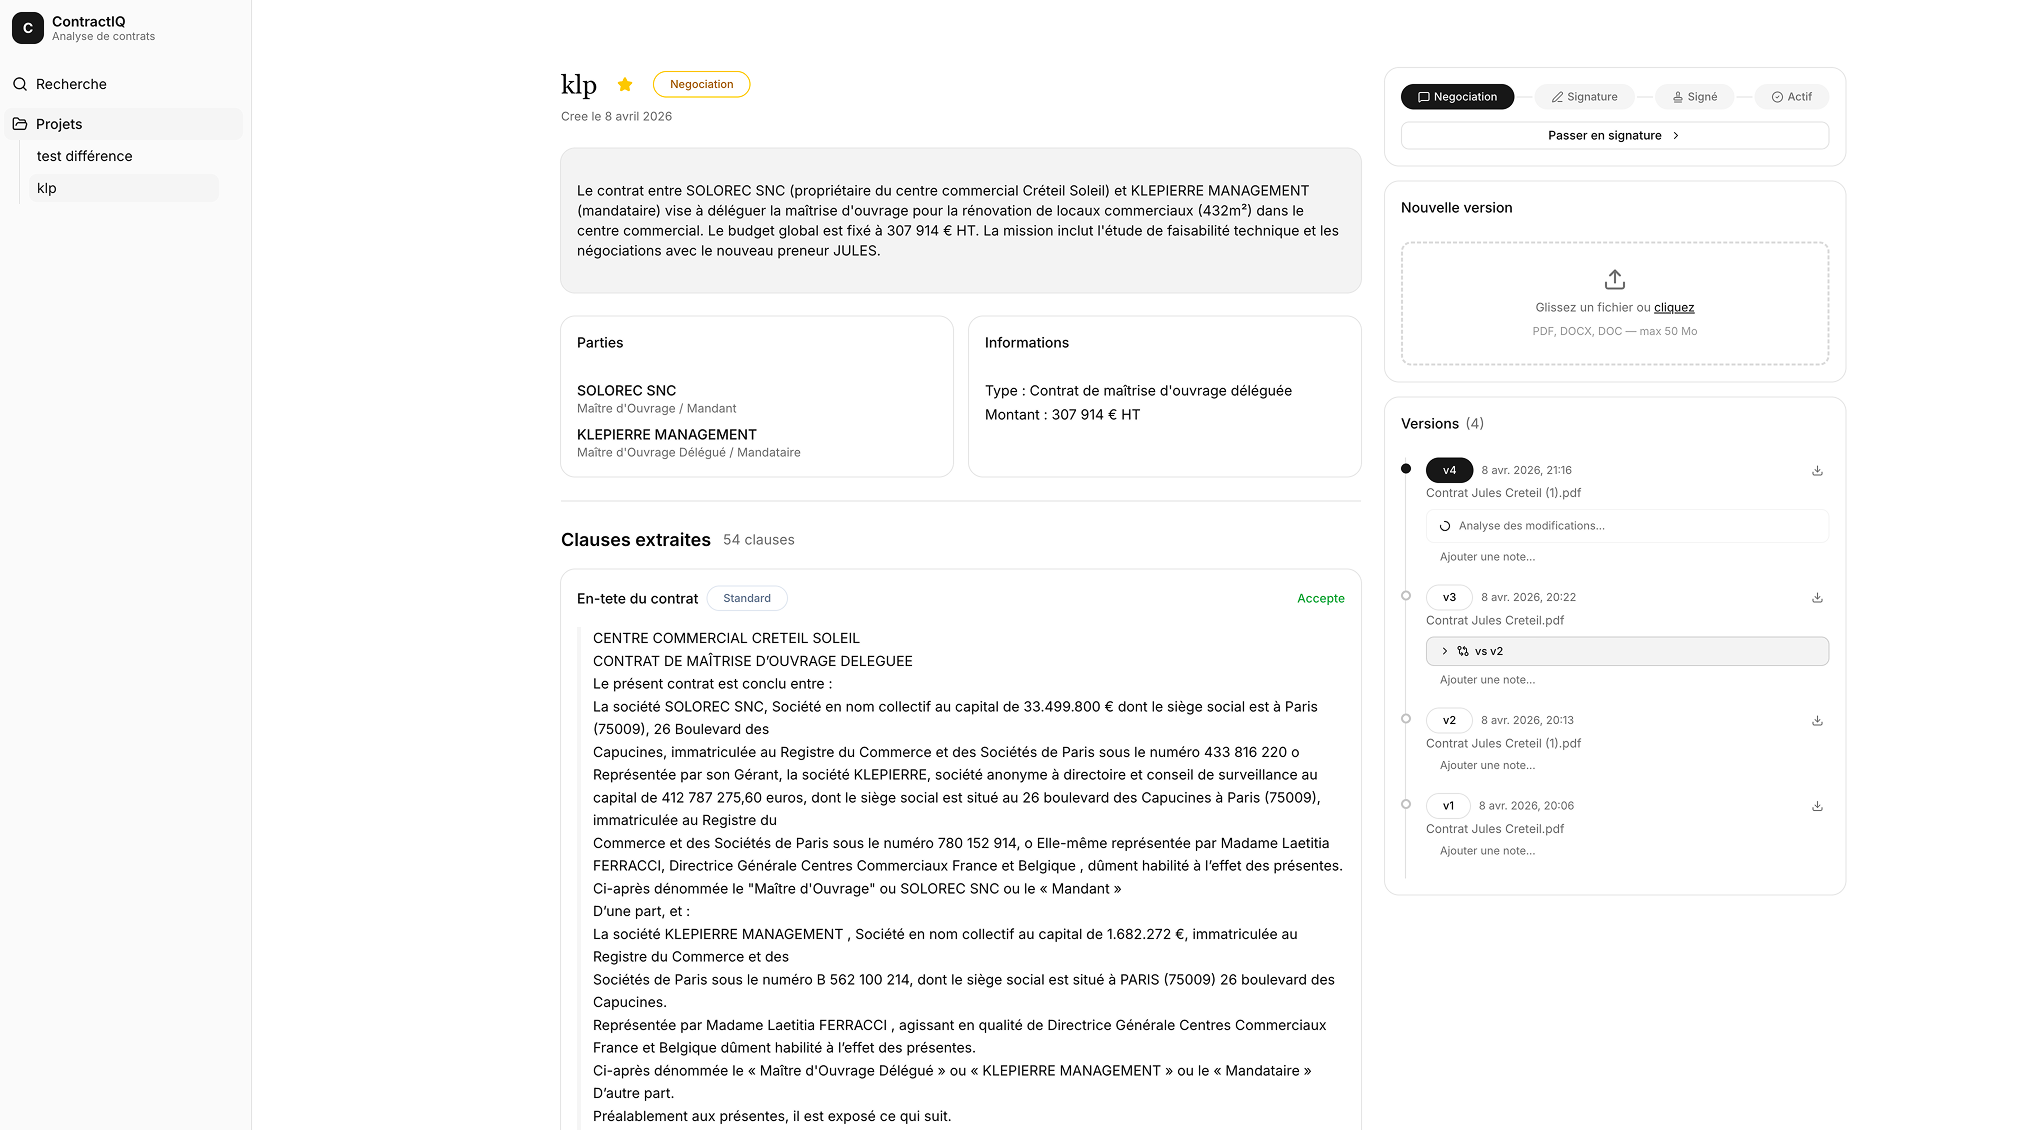
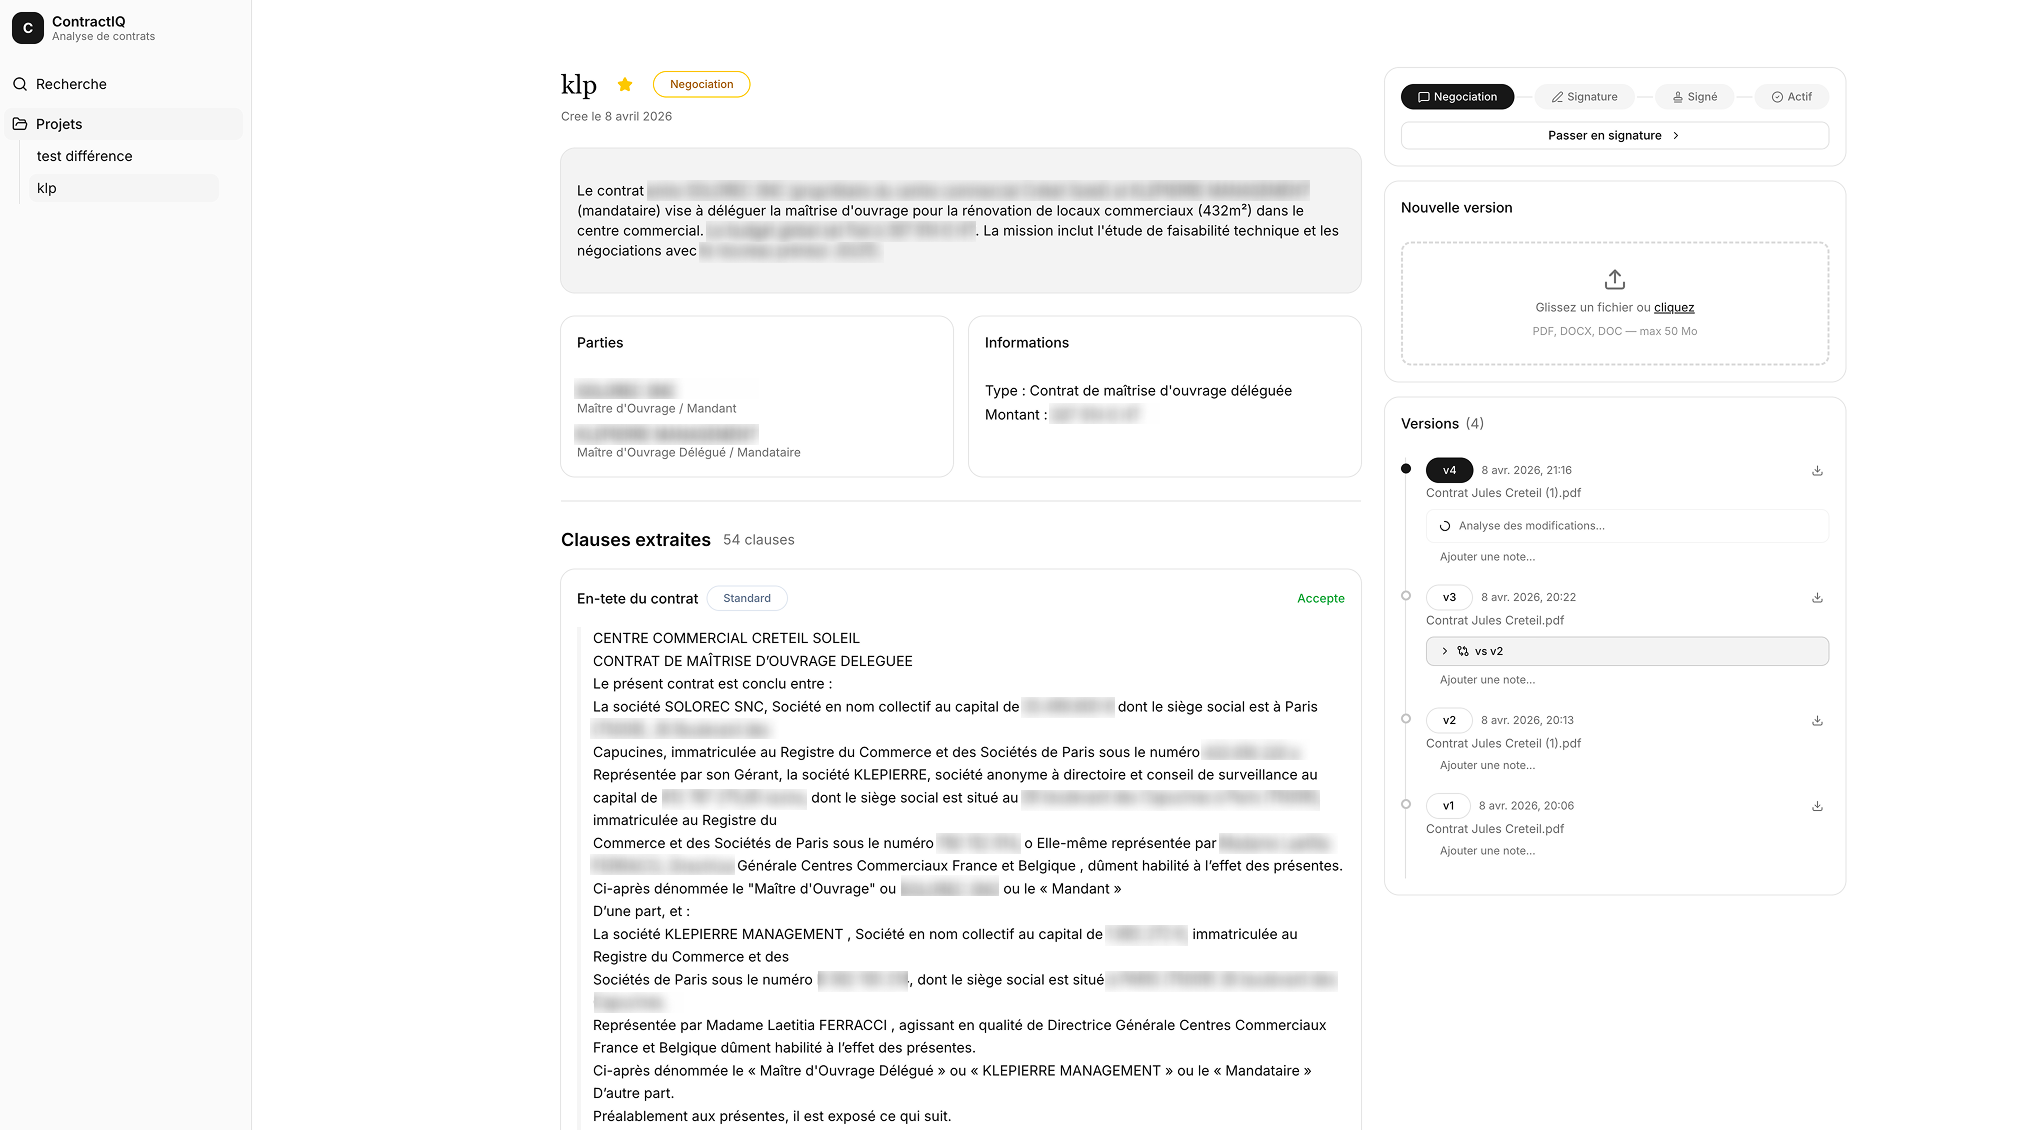
feat(hero): add swipe hint on Timeline + refresh IdentityCard bio
- Animated Hand icon on Timeline bento card to hint at swipeable cards (fires every 7s, 3 rotation+slide cycles with hold)
- Update IdentityCard bio to highlight AI-augmented design work and openness to new environments
- Tweak Timeline + BentoGrid copy, refresh ContractIQ banner image

diff --git a/src/components/features/hero/BentoGrid.tsx b/src/components/features/hero/BentoGrid.tsx
@@ -15,6 +15,7 @@ import { Timeline } from '@/components/features/about'
 import { ExperienceCard } from './ExperienceCard'
 import { ProjectsCard } from './ProjectsCard'
 import { ContactCard } from './ContactCard'
+import { SwipeHint } from './SwipeHint'
 
 interface BentoGridProps {
   experience: ExperienceItem[]
@@ -73,9 +74,9 @@ export function BentoGrid({ experience, skills, availability }: BentoGridProps) 
       </BentoCard>
 
       <BentoCard index={6} variant="projects" className="md:min-h-45">
-        <Link href={`/${locale}/projects/design-system`} className="absolute -inset-5 md:-inset-6 rounded-2xl overflow-hidden block">
+        <Link href={`/${locale}/ai-journey/level-4-agentic-designer`} className="absolute -inset-5 md:-inset-6 rounded-2xl overflow-hidden block">
           <Image
-            src="/images/projects/design-system/banner.png"
+            src="/images/ai/agentic-design.png"
             alt="Design System"
             fill
             className="object-cover transition-transform duration-300 hover:scale-105"
@@ -89,6 +90,7 @@ export function BentoGrid({ experience, skills, availability }: BentoGridProps) 
       {/* Row 5: Experience carousel (2/3) + AI Journey link (1/3) */}
       <BentoCard index={7} variant="experience" className="md:col-span-2">
         <Timeline items={experience} />
+        <SwipeHint />
       </BentoCard>
 
       <BentoCard index={8} variant="projects" className='min-h-40'>
@@ -101,7 +103,7 @@ export function BentoGrid({ experience, skills, availability }: BentoGridProps) 
             aria-hidden="true"
           />
           <p className="text-lg font-bold text-foreground transition-colors">
-            {locale === 'fr' ? 'Exploration IA' : 'AI Journey'}
+            {locale === 'fr' ? 'Mes explorations IA' : 'My AI Journey'}
           </p>
         </Link>
       </BentoCard>

diff --git a/src/components/features/hero/SwipeHint.tsx b/src/components/features/hero/SwipeHint.tsx
@@ -1,0 +1,55 @@
+'use client'
+
+import { useEffect } from 'react'
+import { motion, useAnimationControls } from 'framer-motion'
+import { Hand } from 'lucide-react'
+import { useReducedMotion } from '@/hooks'
+
+const INTERVAL_MS = 7000
+
+export function SwipeHint() {
+  const reducedMotion = useReducedMotion()
+  const controls = useAnimationControls()
+
+  useEffect(() => {
+    if (reducedMotion) return
+
+    let cancelled = false
+
+    const run = async () => {
+      if (cancelled) return
+      await controls.start({
+        opacity: [0, 1, 1, 1, 1, 1, 1, 1, 1, 0],
+        rotate: [0, 25, 25, 0, 25, 25, 0, 25, 25, 0],
+        x: [0, 30, 30, 0, 30, 30, 0, 30, 30, 0],
+        transition: {
+          duration: 2.3,
+          ease: 'easeInOut',
+          times: [0, 0.087, 0.217, 0.304, 0.391, 0.522, 0.609, 0.696, 0.826, 1],
+        },
+      })
+    }
+
+    run()
+    const id = window.setInterval(run, INTERVAL_MS)
+
+    return () => {
+      cancelled = true
+      window.clearInterval(id)
+    }
+  }, [controls, reducedMotion])
+
+  if (reducedMotion) return null
+
+  return (
+    <motion.div
+      aria-hidden="true"
+      initial={{ opacity: 0, rotate: 0, x: 0 }}
+      animate={controls}
+      style={{ transformOrigin: '20% 80%' }}
+      className="pointer-events-none absolute bottom-10 right-20 z-50 text-muted-foreground"
+    >
+      <Hand className="h-6 w-6" />
+    </motion.div>
+  )
+}

diff --git a/src/components/features/hero/IdentityCard.tsx b/src/components/features/hero/IdentityCard.tsx
@@ -29,8 +29,8 @@ export function IdentityCard({ availability }: IdentityCardProps) {
       </div>
       <p className="text-sm text-muted-foreground leading-relaxed">
         {locale === 'fr'
-          ? 'Product Designer passionné par la création d\'expériences utilisateur intuitives et impactantes. Créer, itérer, se challenger, le product design est un métier passion qui anime chez moi la volonté d\'aller toujours plus loin.'
-          : 'A product designer passionate about creating intuitive and impactful user experiences. Creating, iterating, challenging myself – product design is a passion that drives me to always push further.'}
+          ? "Product Designer passionné par la création d'expériences utilisateur intuitives et impactantes. Depuis 2 ans, j'explore aussi le design augmenté par l'IA : workflows d'agents, design systems pilotables, protos haute-fidélité livrés en quelques jours. Je cherche un environnement stimulant et innovant pour pousser ces recherches encore plus loin."
+          : "Product Designer passionate about crafting intuitive, impactful user experiences. For the past 2 years, I've also been exploring AI-augmented design: agent workflows, drivable design systems, high-fidelity prototypes shipped in days. Looking for a stimulating, innovative environment to push this research even further."}
       </p>
     </div>
   )

diff --git a/src/components/features/about/Timeline.tsx b/src/components/features/about/Timeline.tsx
@@ -70,7 +70,7 @@ function SwipeCard({
       <div className="relative overflow-hidden rounded-2xl border border-border bg-card p-6 md:p-8 shadow-secondary-glow cursor-grab active:cursor-grabbing select-none">
         {/* Large year watermark */}
         <span
-          className="absolute -top-6 right-11 text-[12rem] max-w-50 md:text-[6rem] font-bold leading-none text-muted-foreground/6 pointer-events-none"
+          className="absolute -top-6 right-11 text-[12rem] max-w-50 sm:text-[6rem] font-bold leading-none text-muted-foreground/6 pointer-events-none"
           aria-hidden="true"
         >
           {item.year}
